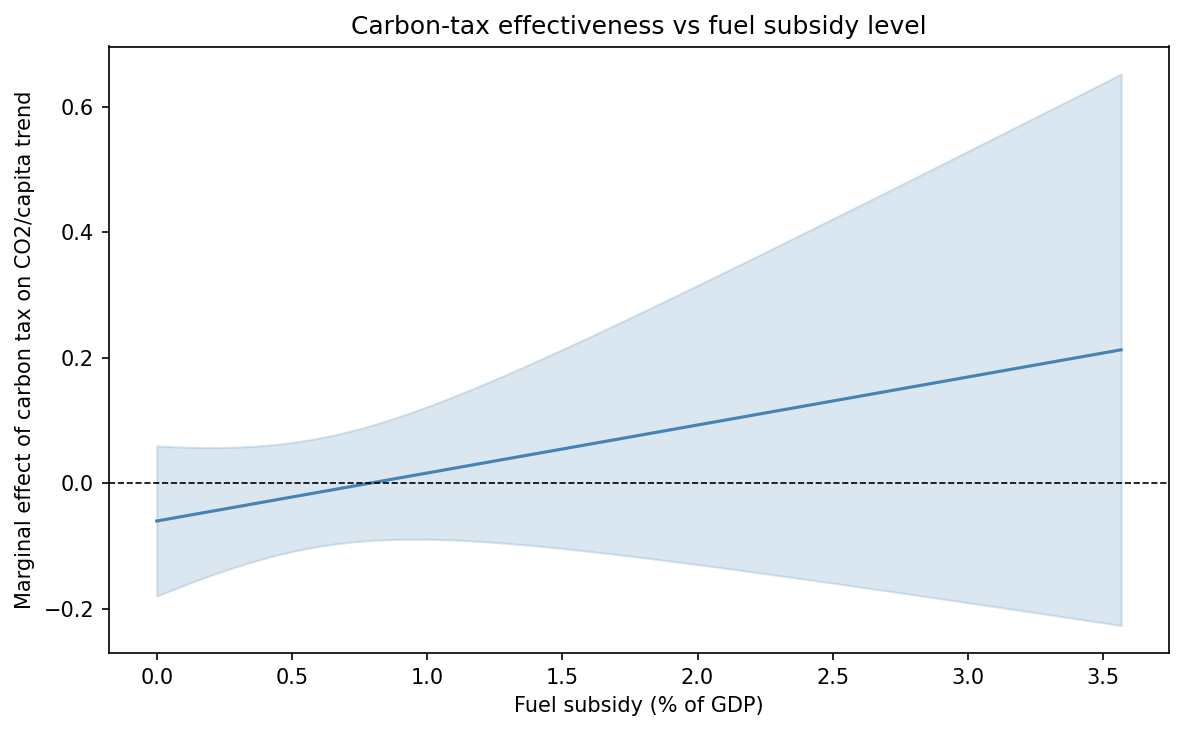
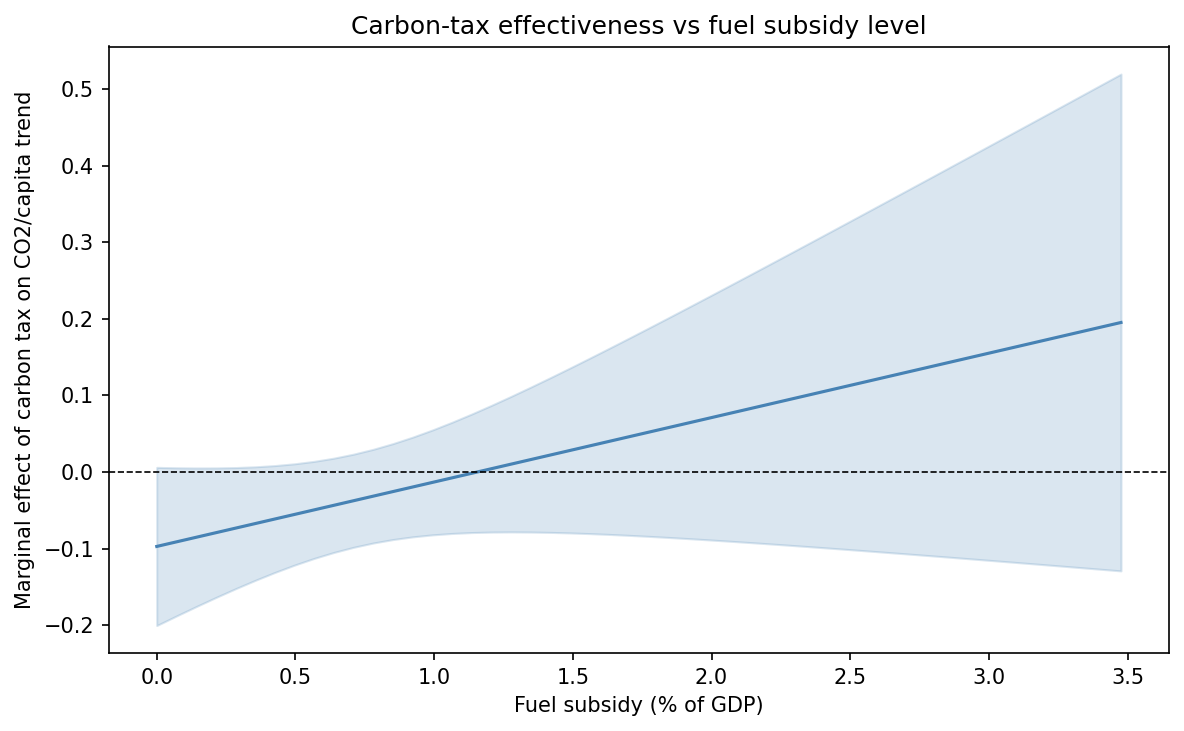
feat: re-run fuel-subsidy interaction on clean has_tax/has_ets; closes Phase 2

diff --git a/docs/FINDINGS_LOG.md b/docs/FINDINGS_LOG.md
@@ -4,6 +4,18 @@
 
 ---
 
+## 3 June 2026 — Fuel-subsidy interaction re-run on clean treatments (Phase 2 fully closed)
+
+Closed the last "partial" Phase 2 item. `fuel_subsidy_analysis.ipynb` previously interacted fuel subsidies with the **conflated `post_carbon_tax`** — contradicting the de-conflation that defines Phase 2. Re-ran with clean `has_tax` / `has_ets` and added an ETS symmetry check. Subsidy subsample: 1,781 obs (202 tax, 339 ETS country-years).
+
+- **Tax × subsidy = +0.084 (p=0.15)**, hypothesized direction. At zero subsidy the tax effect is **−0.097 (p=0.065)**, eroding to ~+0.07 at ~2% GDP subsidy, crossing zero near ~1.2% GDP. Suggestive, **not significant** — subsidy-data overlap is thin.
+- **ETS × subsidy = +0.056 (p=0.52)** — null. The blunting is **tax-specific**, mechanistically sensible: consumer fuel subsidies offset the retail price signal a tax raises, whereas the ETS bites upstream.
+- **Caveat:** `has_ets` flips positive (+0.12) in this subsample — selection artefact of the ~26-country subsidy overlap, not a real reversal. Trust the *interaction*, not subsample levels.
+
+**Verdict:** consistent with tax–subsidy antagonism but can't establish it; needs broader time-varying subsidy coverage (Phase 3 data lever), not a different estimator. With this + the ForestDRLearner capstone, **Phase 2 is fully complete** — clean treatment used throughout, no conflated-variable loose ends.
+
+---
+
 ## 3 June 2026 — Phase 2 capstone: ForestDRLearner multi-policy heterogeneity (Phase 2 COMPLETE)
 
 Built the 4-cell `ForestDRLearner` (0=none, 1=tax-only, 2=ETS-only, 3=both) as `phase2_multipolicy.ipynb` §4. DR-learner chosen over CausalForestDML because the treatment is multi-valued categorical; it returns a CATE per cell vs control. W = 4 validated confounders; X = 7 moderators (median-imputed). The forest has no country FE, so its absolute levels are confounded — anchored to a parametric within-FE `C(policy)` model in the same section.
